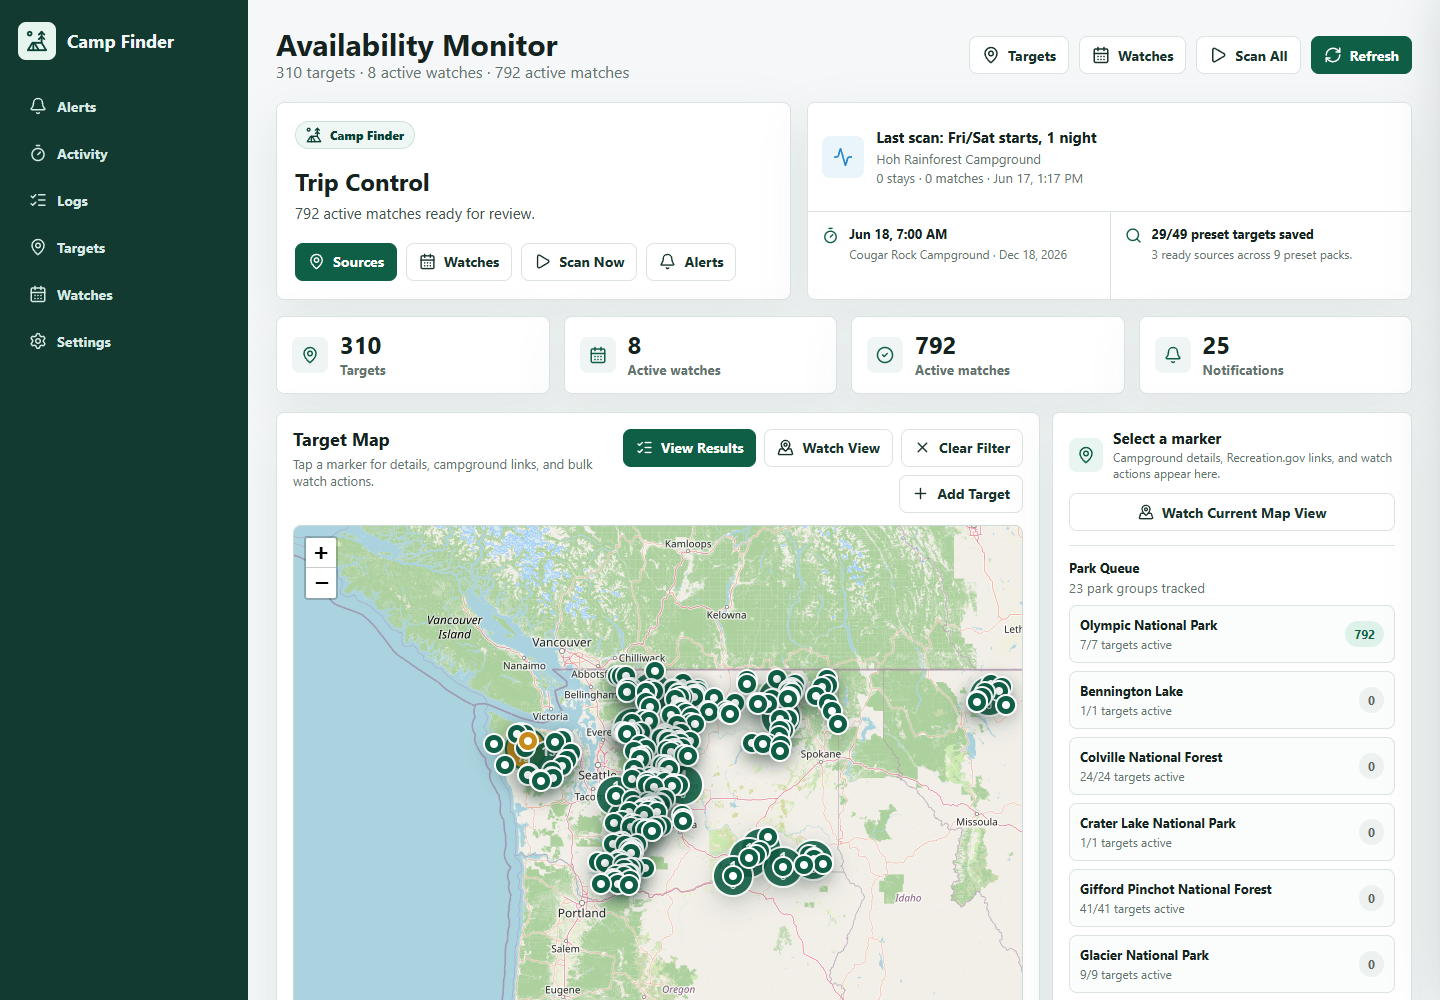
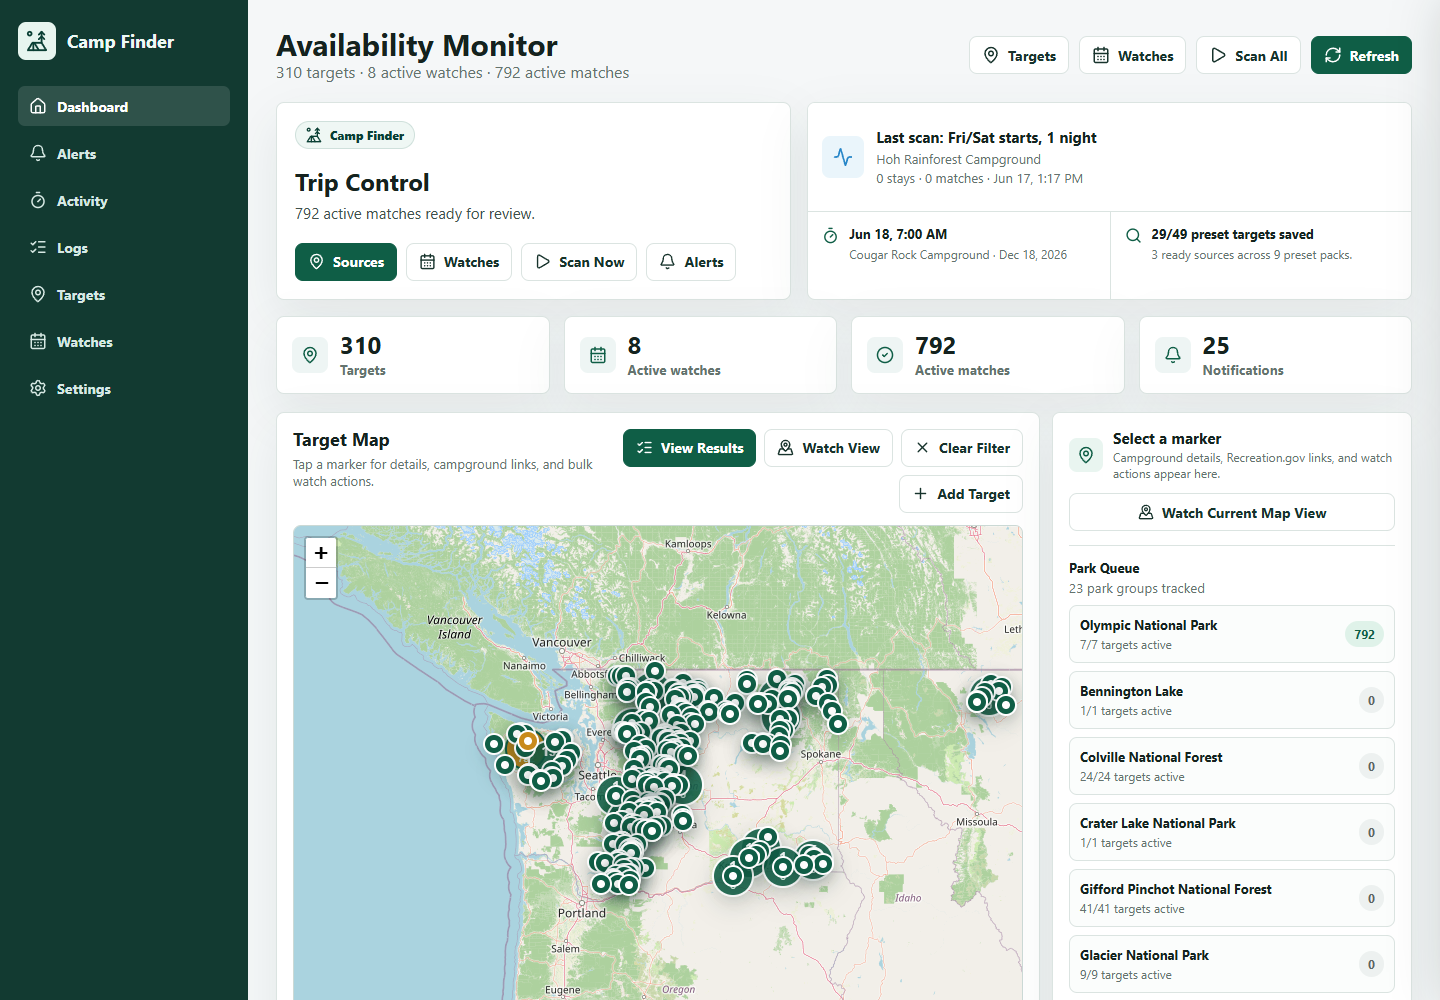
Add dashboard navigation

diff --git a/frontend/src/App.tsx b/frontend/src/App.tsx
@@ -9,6 +9,7 @@ import {
   Download,
   ExternalLink,
   Filter,
+  House,
   ListChecks,
   MapPin,
   MapPinned,
@@ -2206,6 +2207,15 @@ export default function App() {
     setDrawerOpen(true);
   }
 
+  function navigateHome() {
+    setDrawerOpen(false);
+    setPageView("monitor");
+    window.history.replaceState(null, "", `${window.location.pathname}${window.location.search}`);
+    window.setTimeout(() => {
+      window.scrollTo({ top: 0, behavior: "auto" });
+    }, 0);
+  }
+
   function scrollToResults() {
     setDrawerOpen(false);
     setPageView("monitor");
@@ -2733,6 +2743,9 @@ export default function App() {
           <span>Camp Finder</span>
         </div>
         <nav className="nav-list" aria-label="Primary">
+          <button className={`nav-item ${!isLogsPage && !drawerOpen ? "active" : ""}`} onClick={navigateHome} type="button">
+            <House size={18} /> Dashboard
+          </button>
           <button className={`nav-item ${drawerOpen && drawerMode === "alerts" ? "active" : ""}`} onClick={() => openDrawer("alerts")} type="button">
             <Bell size={18} /> Alerts
           </button>
@@ -2778,10 +2791,10 @@ export default function App() {
           </div>
           <div className="topbar-actions">
             {isLogsPage && (
-              <a className="icon-button" href="#results" onClick={scrollToResults} title="Back to availability monitor">
-                <ListChecks size={18} />
-                <span>Monitor</span>
-              </a>
+              <button className="icon-button" onClick={navigateHome} title="Back to dashboard" type="button">
+                <House size={18} />
+                <span>Dashboard</span>
+              </button>
             )}
             <button className="icon-button" onClick={() => openDrawer("targets")} type="button" title="Open campground targets">
               <MapPin size={18} />